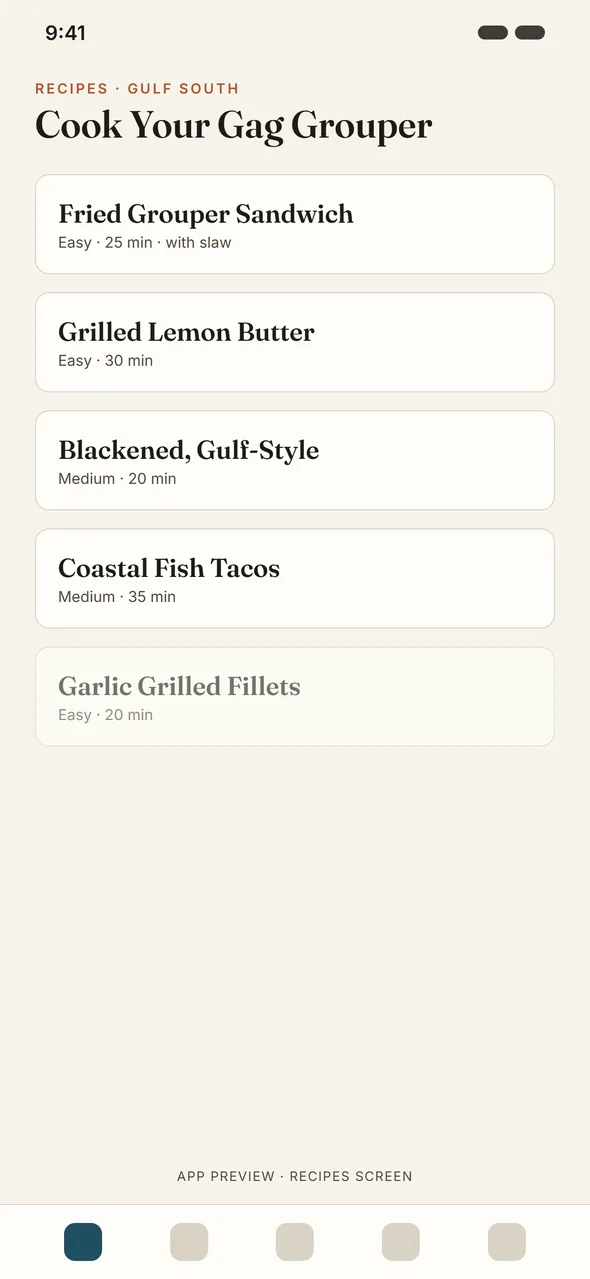
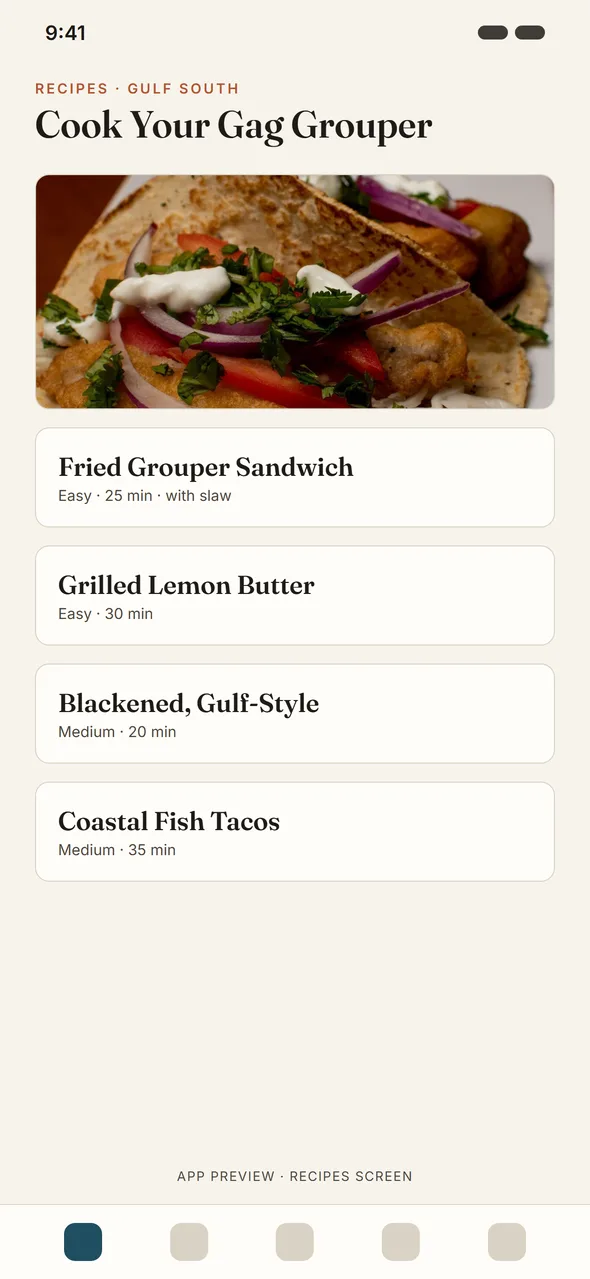
meals: free-license cooked-fish imagery on species pages + recipes mockup
Sourced exclusively from Pexels (policy: Unsplash/Pexels only), each image
visually verified, then run through the same pipeline as the catch photos
(sRGB, 1400x875 crop, metadata stripped, WebP+JPG, 51-135KB):

- /fish/sheepshead: crispy fried fish & chips (Valeriya, Pexels 1123249)
- /fish/snook: lime squeezed over grilled fillets (Aquino Foto, 15112748)
- /fish/redfish: blackened-crust fillet (miltonphotography, 36009489 -
  stock salmon, flagged in credits; alt describes technique not species)
- landing recipes mockup: battered fish taco composited (Amfaru, 9044685)

Generator gains an optional meal-figure slot (picture webp+jpg + caption).
Gag grouper keeps no meal image: no genuine fried-fish-sandwich stock
exists on Pexels/Unsplash - gap logged in docs/IMAGE_CREDITS.md, which
records every source URL, photographer, and license.

diff --git a/scripts/build-species.js b/scripts/build-species.js
@@ -70,6 +70,7 @@ const SPECIES = [
       url: 'https://myfwc.com/fishing/saltwater/recreational/sheepshead/',
       label: 'FWC sheepshead regulations'
     },
+    meal: { file: 'fried-fish-and-chips', alt: 'Crispy fried fish pieces with a basket of chips, tartar sauce, and a squeezed lime on newspaper', caption: 'The classic: crispy fried, tartar on the side.' },
     faq: [
       { q: 'Can you eat sheepshead?', a: "Yes — sheepshead is excellent eating, with sweet, mild white meat often compared to shellfish thanks to its diet of crabs, shrimp, and barnacles. It's a regulated species in Florida, so check current FWC size and bag limits before keeping one." },
       { q: 'What does sheepshead taste like?', a: "Sweet, clean, and slightly briny — closer to crab or lobster than to typical white fish. The fillets are white, lean, firm, and flaky with no oily or fishy edge when properly iced." },
@@ -122,6 +123,7 @@ const SPECIES = [
       url: 'https://myfwc.com/fishing/saltwater/recreational/snook/',
       label: 'FWC snook regulations'
     },
+    meal: { file: 'grilled-fish-lime-squeeze', alt: 'A hand squeezing fresh lime over fish fillets sizzling on a grill', caption: 'Citrus over fire — exactly how snook wants to be treated.' },
     faq: [
       { q: 'Can you eat snook?', a: "Yes — snook is considered some of the best-eating fish in Florida, with mild, sweet, firm white fillets. But harvest is tightly regulated: you may only keep one during open season, within the slot size, with a snook permit, and rules differ by coast. Check current FWC regulations before keeping any snook." },
       { q: 'Why can’t you buy snook in a store or restaurant?', a: "Snook is a protected gamefish in Florida and its commercial sale has been banned for decades. The only legal way to eat snook is to catch a legal one yourself during an open season." },
@@ -174,6 +176,7 @@ const SPECIES = [
       url: 'https://myfwc.com/fishing/saltwater/recreational/red-drum/',
       label: 'FWC red drum regulations'
     },
+    meal: { file: 'blackened-fish-fillet-plated', alt: 'A plated fish fillet with a dark blackened spice crust, asparagus, and mash', caption: 'The blackened treatment: dark spice crust outside, tender inside.' },
     faq: [
       { q: 'Can you eat redfish?', a: "Yes — slot-sized redfish (red drum) are excellent eating: mild, subtly sweet, medium-firm fillets that made blackened redfish a Gulf Coast icon. Florida manages redfish by region with rules that have changed recently, so check the current FWC regulations for your zone before keeping one." },
       { q: 'What does redfish taste like?', a: "Mild and subtly sweet with a medium-firm texture that stands up to bold cooking — spice, smoke, and butter. Slot-sized fish are tender and clean; large bull reds are coarser and are the breeding stock, so they're best released." },
@@ -352,6 +355,10 @@ ${jsonLd(sp)}
   .verdict.careful .v{color:var(--ember)}
   .verdict p{margin:0}
   figure{margin:3rem 0}
+  figure.meal{margin:2.25rem 0 0}
+  figure.meal figcaption{margin-top:.75rem;font-size:.85rem;color:var(--ink-soft)}
+  figure.meal{margin:2.25rem 0 0}
+  figure.meal figcaption{margin-top:.75rem;font-size:.85rem;color:var(--ink-soft)}
   figure img{display:block;width:100%;height:auto;border-radius:4px;background:#e8e2d5}
   h2{font-family:var(--serif);font-weight:600;font-size:clamp(1.5rem,3vw,1.9rem);line-height:1.2;margin:3.25rem 0 1rem;color:var(--ink)}
   h3{font-family:var(--serif);font-size:1.2rem;font-weight:600;margin:1.75rem 0 .5rem;color:var(--ink)}
@@ -427,6 +434,13 @@ ${sp.clean.steps.map((s) => `  <li>${s}</li>`).join('\n')}
 
 <h2>${sp.methods.heading}</h2>
 ${sp.methods.items.map((m) => `<h3>${m.name}</h3>\n<p>${m.body}</p>`).join('\n')}
+${sp.meal ? `<figure class="meal">
+  <picture>
+    <source srcset="/images/meals/${sp.meal.file}.webp" type="image/webp" />
+    <img src="/images/meals/${sp.meal.file}.jpg" width="1400" height="875" alt="${esc(sp.meal.alt)}" loading="lazy" />
+  </picture>
+  <figcaption>${sp.meal.caption}</figcaption>
+</figure>` : ''}
 <p class="safety"><strong>Food safety:</strong> ${sp.methods.safety}</p>
 
 <h2>Regulations: check before you keep</h2>

diff --git a/fish/redfish.html b/fish/redfish.html
@@ -136,6 +136,10 @@
   .verdict.careful .v{color:var(--ember)}
   .verdict p{margin:0}
   figure{margin:3rem 0}
+  figure.meal{margin:2.25rem 0 0}
+  figure.meal figcaption{margin-top:.75rem;font-size:.85rem;color:var(--ink-soft)}
+  figure.meal{margin:2.25rem 0 0}
+  figure.meal figcaption{margin-top:.75rem;font-size:.85rem;color:var(--ink-soft)}
   figure img{display:block;width:100%;height:auto;border-radius:4px;background:#e8e2d5}
   h2{font-family:var(--serif);font-weight:600;font-size:clamp(1.5rem,3vw,1.9rem);line-height:1.2;margin:3.25rem 0 1rem;color:var(--ink)}
   h3{font-family:var(--serif);font-size:1.2rem;font-weight:600;margin:1.75rem 0 .5rem;color:var(--ink)}
@@ -221,6 +225,13 @@
 <p>Florida's favorite shortcut. Scale-on, skin-on fillets go flesh-up on a medium-hot grill, brushed with garlic butter, lid closed, 10–12 minutes — no flipping, no sticking, no drama. The shell chars; the meat steams in butter. Squeeze a lemon over and serve straight off the armor.</p>
 <h3>Seared with lemon butter</h3>
 <p>The weeknight version: skinless fillets seasoned simply, seared in a hot pan 3–4 minutes a side, finished with butter, lemon, and capers. Firm enough to flip confidently, mild enough for the whole table.</p>
+<figure class="meal">
+  <picture>
+    <source srcset="/images/meals/blackened-fish-fillet-plated.webp" type="image/webp" />
+    <img src="/images/meals/blackened-fish-fillet-plated.jpg" width="1400" height="875" alt="A plated fish fillet with a dark blackened spice crust, asparagus, and mash" loading="lazy" />
+  </picture>
+  <figcaption>The blackened treatment: dark spice crust outside, tender inside.</figcaption>
+</figure>
 <p class="safety"><strong>Food safety:</strong> Whatever the method: fish is done at an internal temperature of 145°F, when the flesh is opaque and flakes easily.</p>
 
 <h2>Regulations: check before you keep</h2>

diff --git a/fish/sheepshead.html b/fish/sheepshead.html
@@ -136,6 +136,10 @@
   .verdict.careful .v{color:var(--ember)}
   .verdict p{margin:0}
   figure{margin:3rem 0}
+  figure.meal{margin:2.25rem 0 0}
+  figure.meal figcaption{margin-top:.75rem;font-size:.85rem;color:var(--ink-soft)}
+  figure.meal{margin:2.25rem 0 0}
+  figure.meal figcaption{margin-top:.75rem;font-size:.85rem;color:var(--ink-soft)}
   figure img{display:block;width:100%;height:auto;border-radius:4px;background:#e8e2d5}
   h2{font-family:var(--serif);font-weight:600;font-size:clamp(1.5rem,3vw,1.9rem);line-height:1.2;margin:3.25rem 0 1rem;color:var(--ink)}
   h3{font-family:var(--serif);font-size:1.2rem;font-weight:600;margin:1.75rem 0 .5rem;color:var(--ink)}
@@ -221,6 +225,13 @@
 <p>Lay whole fillets in a baking dish with butter, lemon, garlic, and a little white wine. Bake at 400°F for 12–15 minutes until the flesh flakes. The gentlest way to taste how much this fish resembles the shellfish it eats.</p>
 <h3>Pan-seared, shellfish-style</h3>
 <p>Treat it like you'd treat a crab cake's ambitions: hot pan, butter, a simple sear 3–4 minutes a side, finished with lemon and parsley. Firm enough not to fall apart, sweet enough to need nothing else.</p>
+<figure class="meal">
+  <picture>
+    <source srcset="/images/meals/fried-fish-and-chips.webp" type="image/webp" />
+    <img src="/images/meals/fried-fish-and-chips.jpg" width="1400" height="875" alt="Crispy fried fish pieces with a basket of chips, tartar sauce, and a squeezed lime on newspaper" loading="lazy" />
+  </picture>
+  <figcaption>The classic: crispy fried, tartar on the side.</figcaption>
+</figure>
 <p class="safety"><strong>Food safety:</strong> Whatever the method: fish is done at an internal temperature of 145°F, when the flesh is opaque and flakes easily.</p>
 
 <h2>Regulations: check before you keep</h2>

diff --git a/fish/snook.html b/fish/snook.html
@@ -136,6 +136,10 @@
   .verdict.careful .v{color:var(--ember)}
   .verdict p{margin:0}
   figure{margin:3rem 0}
+  figure.meal{margin:2.25rem 0 0}
+  figure.meal figcaption{margin-top:.75rem;font-size:.85rem;color:var(--ink-soft)}
+  figure.meal{margin:2.25rem 0 0}
+  figure.meal figcaption{margin-top:.75rem;font-size:.85rem;color:var(--ink-soft)}
   figure img{display:block;width:100%;height:auto;border-radius:4px;background:#e8e2d5}
   h2{font-family:var(--serif);font-weight:600;font-size:clamp(1.5rem,3vw,1.9rem);line-height:1.2;margin:3.25rem 0 1rem;color:var(--ink)}
   h3{font-family:var(--serif);font-size:1.2rem;font-weight:600;margin:1.75rem 0 .5rem;color:var(--ink)}
@@ -221,6 +225,13 @@
 <p>The preparation Florida restaurants would serve if they were allowed to. Hot pan, neutral oil, skinless fillet seasoned and seared 3–4 minutes a side until golden, basted with butter, garlic, and thyme at the end.</p>
 <h3>Snook tacos</h3>
 <p>Cube the fillets, toss with cumin, chili powder, and lime, and sear hard. Pile into warm tortillas with cabbage slaw and a squeeze of crema. A slot snook feeds a table this way.</p>
+<figure class="meal">
+  <picture>
+    <source srcset="/images/meals/grilled-fish-lime-squeeze.webp" type="image/webp" />
+    <img src="/images/meals/grilled-fish-lime-squeeze.jpg" width="1400" height="875" alt="A hand squeezing fresh lime over fish fillets sizzling on a grill" loading="lazy" />
+  </picture>
+  <figcaption>Citrus over fire — exactly how snook wants to be treated.</figcaption>
+</figure>
 <p class="safety"><strong>Food safety:</strong> Whatever the method: fish is done at an internal temperature of 145°F, when the flesh is opaque and flakes easily.</p>
 
 <h2>Regulations: check before you keep</h2>

diff --git a/fish/gag-grouper.html b/fish/gag-grouper.html
@@ -136,6 +136,10 @@
   .verdict.careful .v{color:var(--ember)}
   .verdict p{margin:0}
   figure{margin:3rem 0}
+  figure.meal{margin:2.25rem 0 0}
+  figure.meal figcaption{margin-top:.75rem;font-size:.85rem;color:var(--ink-soft)}
+  figure.meal{margin:2.25rem 0 0}
+  figure.meal figcaption{margin-top:.75rem;font-size:.85rem;color:var(--ink-soft)}
   figure img{display:block;width:100%;height:auto;border-radius:4px;background:#e8e2d5}
   h2{font-family:var(--serif);font-weight:600;font-size:clamp(1.5rem,3vw,1.9rem);line-height:1.2;margin:3.25rem 0 1rem;color:var(--ink)}
   h3{font-family:var(--serif);font-size:1.2rem;font-weight:600;margin:1.75rem 0 .5rem;color:var(--ink)}
@@ -221,6 +225,7 @@
 <p>Thick grouper fillets are one of the few white fish that grill confidently without a basket. Oil well, season simply, and grill over medium-high heat about 5 minutes a side, basting with lemon-garlic butter. The big flake stays moist inside the grill marks.</p>
 <h3>Blackened, Gulf-style</h3>
 <p>A Cajun spice crust in a screaming-hot cast-iron pan, 3–4 minutes a side. Gag's thick fillet is the ideal canvas — crusted and dark outside, snow-white and steaming inside. Squeeze a lime over the top.</p>
+
 <p class="safety"><strong>Food safety:</strong> Whatever the method: fish is done at an internal temperature of 145°F, when the flesh is opaque and flakes easily.</p>
 
 <h2>Regulations: check before you keep</h2>

diff --git a/docs/IMAGE_CREDITS.md b/docs/IMAGE_CREDITS.md
@@ -1,0 +1,24 @@
+# Image Credits & Licenses
+
+**Two image classes on this site:**
+1. **Owner photography** — all files in `images/fish/` (except sheepshead placeholder) and `images/photos/` are Jordan Hoth's own catch photos. Proprietary, all rights reserved, EXIF/GPS stripped before commit.
+2. **Free-license stock (meals)** — files in `images/meals/`, sourced exclusively from Pexels per the sourcing policy (Unsplash/Pexels only; never Google Images or recipe sites). All under the [Pexels License](https://www.pexels.com/license/): free for commercial use, no attribution required (credited anyway below), modifications allowed.
+
+## Stock meal images
+
+| Local file (`images/meals/`) | Subject / used where | Source page | Photographer | License |
+|---|---|---|---|---|
+| `fried-fish-and-chips.{webp,jpg}` | Crispy fried fish, chips, tartar, lime — **/fish/sheepshead** cooking section | https://www.pexels.com/photo/fired-meat-beside-sliced-lemon-1123249/ | Valeriya | Pexels License |
+| `grilled-fish-lime-squeeze.{webp,jpg}` | Lime squeezed over fillets on the grill — **/fish/snook** cooking section | https://www.pexels.com/photo/pouring-lime-juice-on-roasted-fish-15112748/ | Aquino Foto | Pexels License |
+| `blackened-fish-fillet-plated.{webp,jpg}` | Plated fillet with dark blackened crust — **/fish/redfish** cooking section. ⚠ The fish is a **salmon** (only true "blackened" stock available); alt/caption describe the technique, not the species. Swap for a real blackened-redfish photo when one is shot. | https://www.pexels.com/photo/gourmet-blackened-salmon-with-asparagus-36009489/ | miltonphotography | Pexels License |
+| `battered-fish-tacos.{webp,jpg}` | Battered fish taco close-up — composited into the landing **recipes app-preview mockup** (`images/screens/03-recipes.webp`) | https://www.pexels.com/photo/close-up-of-a-tortilla-wrap-with-meat-vegetables-and-sauce-9044685/ | Amfaru | Pexels License |
+
+All four were re-processed before entering the repo (sRGB, cropped 1400×875, metadata stripped, WebP + JPG ≤~135KB) — same pipeline as the owner photos (`docs/IMAGE_MANIFEST.md`).
+
+## Slots checked, no suitable free-license image found
+
+- **Fried grouper sandwich** (`/fish/gag-grouper` cooking section): searched Pexels ("fish sandwich") and Unsplash ("fish burger") — results were salmon croissants, lobster rolls, beef burgers; nothing showing an actual fried-fish sandwich on a bun. **Slot intentionally left without an image.** Best fix: shoot one (it's the signature dish of the page).
+
+## Processing log
+
+Downloaded 6 candidates (also Pexels 19034916 by Audy of Course and 18032209 by Amar — reviewed, not used). Sources verified visually before placement; no images were taken from Google Images or recipe sites.